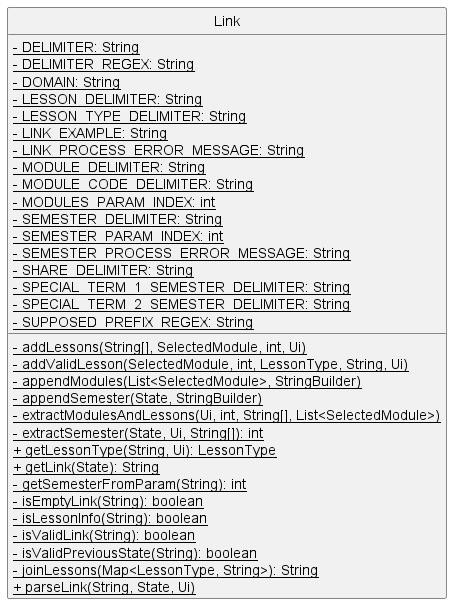
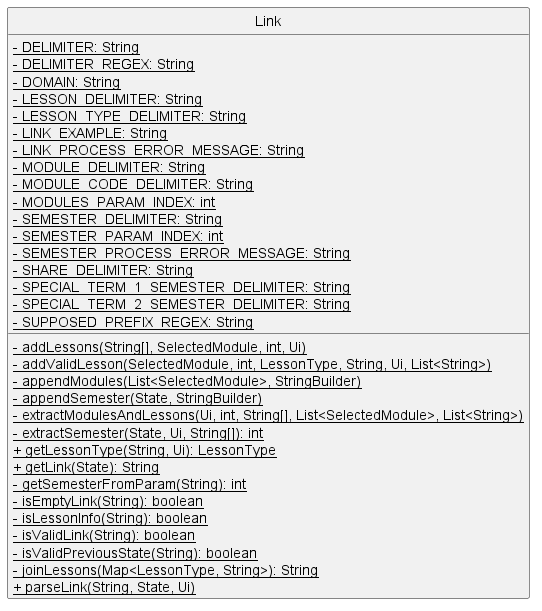
Fix link class

Changed region(s): [[0.0, 0.0311, 0.976, 0.9951], [0.4575, 0.0311, 0.5185, 0.0622], [0.6405, 0.2488, 0.671, 0.2799]]

diff --git a/src/main/java/seedu/duke/utils/Link.java b/src/main/java/seedu/duke/utils/Link.java
@@ -23,8 +23,6 @@ public class Link {
 
     private static final String DELIMITER = "/";
 
-    private static final String DELIMITER_REGEX = "\\/";
-
     private static final String SEMESTER_DELIMITER = "sem-";
 
     private static final String SPECIAL_TERM_1_SEMESTER_DELIMITER = "st-i";
@@ -37,8 +35,9 @@ public class Link {
 
     private static final String MODULE_CODE_DELIMITER = "=";
 
-    private static final String SUPPOSED_PREFIX_REGEX = "^" + DOMAIN + "(" + SPECIAL_TERM_1_SEMESTER_DELIMITER + "|"
-            + SPECIAL_TERM_2_SEMESTER_DELIMITER + "|" + SEMESTER_DELIMITER + "\\d" + ")/share\\?.";
+    private static final String SUPPOSED_PREFIX_REGEX = "^" + Pattern.quote(DOMAIN) + "("
+            + SPECIAL_TERM_1_SEMESTER_DELIMITER + "|" + SPECIAL_TERM_2_SEMESTER_DELIMITER
+            + "|" + SEMESTER_DELIMITER + "\\d" + ")" + Pattern.quote(DELIMITER + SHARE_DELIMITER);
 
     private static final String MODULE_DELIMITER = "&";
 
@@ -66,7 +65,7 @@ public class Link {
      * @param state Current state of the application to be saved to.
      */
     public static void parseLink(String link, State state, Ui ui) throws YamomException {
-        String[] infoParam = link.split(DELIMITER_REGEX);
+        String[] infoParam = link.split(Pattern.quote(DELIMITER));
 
         int semester = extractSemester(state, ui, infoParam);
         String modulesParam = infoParam[MODULES_PARAM_INDEX];
@@ -76,9 +75,10 @@ public class Link {
         if (cleanModuleParam.isEmpty()) {
             return;
         }
-        String[] moduleAndLessonsArray = cleanModuleParam.split(MODULE_DELIMITER);
+        String[] moduleAndLessonsArray = cleanModuleParam.split(Pattern.quote(MODULE_DELIMITER));
         List<SelectedModule> selectedModules = new ArrayList<>();
-        extractModulesAndLessons(ui, semester, moduleAndLessonsArray, selectedModules);
+        List<String> moduleCodesAdded = new ArrayList<>();
+        extractModulesAndLessons(ui, semester, moduleAndLessonsArray, selectedModules, moduleCodesAdded);
         ui.addMessage("Please check that the format of the link provided is correct if there are missing "
                 + "modules or lessons.");
         ui.addMessage("Please visit https://ay2223s1-cs2113-f11-3.github.io/tp/UserGuide.html#import-a-"
@@ -92,11 +92,12 @@ public class Link {
      *
      * @param ui                    To output to the user.
      * @param semester              Semester in which lessons are being selected for.
-     * @param moduleAndLessonsArray The segment of user input that contains the modules information.
+     * @param moduleAndLessonsArray The segment of user input that contains the modules' information.
      * @param selectedModules       To store all the modules specified in a standardized format.
+     * @param moduleCodesAdded      To verify that there are no duplicate modules added.
      */
     private static void extractModulesAndLessons(Ui ui, int semester, String[] moduleAndLessonsArray,
-                                                 List<SelectedModule> selectedModules) {
+                                                 List<SelectedModule> selectedModules, List<String> moduleCodesAdded) {
         for (String moduleAndLessons : moduleAndLessonsArray) {
             String[] splitModuleAndLesson = moduleAndLessons.split(Pattern.quote(MODULE_CODE_DELIMITER));
             if (splitModuleAndLesson.length == 0) {
@@ -104,15 +105,16 @@ public class Link {
             }
             String moduleCode = splitModuleAndLesson[0];
             Module module = Module.get(moduleCode);
-            if (module == null || module.getSemesterData(semester) == null) {
+            if (module == null || module.getSemesterData(semester) == null || moduleCodesAdded.contains(moduleCode)) {
                 continue;
             }
             ui.addMessage(moduleCode + " added.");
-            ui.addMessage("The following lessons were added:");
+            ui.addMessage("The following lesson(s) were added:");
             SelectedModule selectedModule = new SelectedModule(module, semester);
-            //only parses the lessons between the first and second = sign (there is not supposed to be a second = sign)
+            moduleCodesAdded.add(moduleCode);
+
             if (splitModuleAndLesson.length > 1) {
-                String[] lessonsInfo = (splitModuleAndLesson[1]).split(LESSON_DELIMITER);
+                String[] lessonsInfo = (splitModuleAndLesson[1]).split(Pattern.quote(LESSON_DELIMITER));
                 addLessons(lessonsInfo, selectedModule, semester, ui);
             }
             selectedModules.add(selectedModule);
@@ -198,14 +200,18 @@ public class Link {
      * @param ui             To output to the user.
      */
     private static void addLessons(String[] lessonsInfo, SelectedModule selectedModule, int semester, Ui ui) {
+        List<String> lessonsAdded = new ArrayList<>();
         for (String s : lessonsInfo) {
             if (!isLessonInfo(s)) {
                 continue;
             }
-            String[] lessonInfo = s.split(LESSON_TYPE_DELIMITER);
+            String[] lessonInfo = s.split(Pattern.quote(LESSON_TYPE_DELIMITER));
             LessonType lessonType = getLessonType(lessonInfo[0], ui);
             String classNo = lessonInfo[1];
-            addValidLesson(selectedModule, semester, lessonType, classNo, ui);
+            if (lessonsAdded.contains(lessonType + ":" + classNo)) {
+                continue;
+            }
+            addValidLesson(selectedModule, semester, lessonType, classNo, ui, lessonsAdded);
         }
     }
 
@@ -217,27 +223,29 @@ public class Link {
      * @param lessonType     Specified lesson type.
      * @param classNo        Specified class number.
      * @param ui             To output to the user.
+     * @param lessonsAdded   To verify that there are no duplicate lessons added.
      */
-    private static void addValidLesson(SelectedModule selectedModule, int semester,
-                                       LessonType lessonType, String classNo, Ui ui) {
+    private static void addValidLesson(SelectedModule selectedModule, int semester, LessonType lessonType,
+                                       String classNo, Ui ui, List<String> lessonsAdded) {
         List<RawLesson> potentialLesson = selectedModule.getModule().getSemesterData(semester)
             .getLessonsByTypeAndNo(lessonType, classNo);
         if (!potentialLesson.isEmpty()) {
             selectedModule.selectSlot(lessonType, classNo);
             ui.addMessage(lessonType + ":" + classNo);
+            lessonsAdded.add(lessonType + ":" + classNo);
         }
     }
 
     /**
      * Checks if the lesson information is of a valid form. It should begin with 3 to 4 alphanumeric
-     * capital alphabets defined in the {@link LessonTypeParser#parse(String)} function.
+     * alphabets defined in the {@link LessonTypeParser#parse(String)} function.
      *
      * @param lessonInfo Single lesson information of a module.
      * @return <code>true</code> if the lesson information is of a valid form.
      */
     private static boolean isLessonInfo(String lessonInfo) {
         //pattern for classNo is not definite.
-        Pattern pattern = Pattern.compile("[A-Z]{3,4}\\d?:");
+        Pattern pattern = Pattern.compile("^[A-Z]{3,4}\\d?:.");
         Matcher matcher = pattern.matcher(lessonInfo);
         return matcher.find();
     }

diff --git a/src/test/java/seedu/duke/utils/LinkTest.java b/src/test/java/seedu/duke/utils/LinkTest.java
@@ -71,6 +71,7 @@ public class LinkTest {
 
     @Test
     public void isValidLink_validLink_true() {
+        assertTrue(Link.isValidLink("https://nusmods.com/timetable/sem-1/share?"));
         assertTrue(Link.isValidLink("https://nusmods.com/timetable/sem-1/share?CS2113="));
         assertTrue(Link.isValidLink("https://nusmods.com/timetable/st-i/share?CS2113="));
         assertTrue(Link.isValidLink("https://nusmods.com/timetable/st-ii/share?CS2113="));
@@ -78,6 +79,7 @@ public class LinkTest {
 
     @Test
     public void isValidLink_notValidLink_false() {
+        assertFalse(Link.isValidLink("https://nusmods.com/timetable/sem-1share?"));
         assertFalse(Link.isValidLink("https://nusmods.com/timetable/sem-a/share?CS2113="));
         assertFalse(Link.isValidLink("https://nusmods.com/timetable/st-iii/share?CS2113="));
     }

diff --git a/src/main/java/seedu/duke/command/ImportCommand.java b/src/main/java/seedu/duke/command/ImportCommand.java
@@ -21,9 +21,11 @@ public class ImportCommand extends Command {
     public ImportCommand(String[] input) throws YamomException {
         super(input);
 
-        if (!Parser.isTwoWordsCommand(input)) {
+        if (Parser.isOneWordCommand(input)) {
             throw new YamomException("No NUSMod link given.");
-        } else if (!Link.isValidLink(input[1]) && !Link.isEmptyLink(input[1])) {
+        } else if (Parser.isMultiWordsCommand(input)) {
+            throw new YamomException("Too many parameters supplied.");
+        } else if (!Link.isValidLink(input[1])) {
             throw new YamomException("The link you supplied is not valid.");
         } else if (Link.isEmptyLink(input[1])) {
             throw new YamomException("You are trying to import an empty timetable.");

diff --git a/src/main/java/seedu/duke/utils/Storage.java b/src/main/java/seedu/duke/utils/Storage.java
@@ -78,7 +78,7 @@ public class Storage {
         Scanner scanner = new Scanner(file);
         while (scanner.hasNext()) {
             String line = scanner.nextLine();
-            if (Link.isValidLink(line)) {
+            if (Link.isValidLink(line) && !Link.isEmptyLink(line)) {
                 links.add(line);
             }
         }

diff --git a/docs/UserGuide.md b/docs/UserGuide.md
@@ -795,11 +795,15 @@ Format: `import [ NUSMOD_LINK ]`
   * `LAB`  representing LABORATORY
   * `PROJ` representing MINI_PROJECT
   * `SEM`  representing SEMINAR_STYLE_MODULE_CLASS  
-  note: other lesson types are currently not supported.
+  note: other lesson types are currently not supported. Preliminary checks based on the first 4 characters have been implemented to ensure that 
+  * `LESSON_TYPE_SHORT_FORM` is of the above-mentioned form. E.g. `TUTA` will be accepted as representing TUTORIAL.
 * `LESSON_NUMBER` can vary and is not of a certain form. Take note `01` is not the same as `1`. 
 * If `SEMESTER_NUMBER` is incorrect, the whole link will not be parsed.
 * If `MODULE_CODE` is incorrect, that module will not be added.
+* If there are duplicated `MODULE_CODE`, only the first module information will be parsed.
 * If `LESSONS_INFO` is incorrect, that lesson will not be added.
+* If there are duplicated `LESSON_TYPE` within the lesson information, only the last lesson 
+information of that `LESSON_TYPE` will be saved although all will be parsed.
 * The other parts of the link that is valid will still be parsed and a success message will be displayed.
 
 Example of usage:
@@ -887,20 +891,20 @@ Alternatively, you can export the timetable, copy the link generated, and import
 
 ## Command summary
 
-| Action                           | Format                                                                                                 | Example                                                               |
-|----------------------------------|--------------------------------------------------------------------------------------------------------|-----------------------------------------------------------------------|
-| Add a module                     | `add [ MODULE_CODE ]`                                                                                  | `add CS2101`                                                          |
-| Remove a module                  | `remove [ MODULE_CODE ]`                                                                               | `remove CS2102`                                                       |
-| Exit application                 | `bye`                                                                                                  | `bye`                                                                 |
-| Read more details about a module | `info [ MODULE_CODE ]`                                                                                 | `info CS2103`                                                         |
-| Find module by keyword           | `search [ /code PARTIAL_MODULE_CODE &#124; /title KEYWORD ] < /level MODULE_LEVEL > < /sem SEMESTER >` | `search /code cs /level 2 /sem 1`                                     |
-| Seek help                        | `help`                                                                                                 | `help`                                                                |
-| Import modules from NUSMods URL  | `import [ NUSMODS_LINK ]`                                                                              | `import https://nusmods.com/timetable/sem-1/share?CS2113=LEC:1,TUT:4` |
-| Export modules to NUSMods URL    | `export`                                                                                               | `export`                                                              |
-| Change semester                  | `semester [ SEMESTER ]`                                                                                | `semester 2`                                                          |
-| View timetable                   | `timetable < /fancy &#124; /simple >`                                                                  | `timetable`                                                           |
-| List selected modules            | `list`                                                                                                 | `list`                                                                |
-| Add module timetable slot        | `select [ /module MODULE_CODE ] [ /type LESSON_TYPE ] [ /code CLASS_NO ]`                              | `select /module CS1010 /type tutorial /code 1`                        |
+| Action                           | Format                                                                                                            | Example                                                               |
+|----------------------------------|-------------------------------------------------------------------------------------------------------------------|-----------------------------------------------------------------------|
+| Add a module                     | `add [ MODULE_CODE ]`                                                                                             | `add CS2101`                                                          |
+| Remove a module                  | `remove [ MODULE_CODE ]`                                                                                          | `remove CS2102`                                                       |
+| Exit application                 | `bye`                                                                                                             | `bye`                                                                 |
+| Read more details about a module | `info [ MODULE_CODE ]`                                                                                            | `info CS2103`                                                         |
+| Find module by keyword           | <code>search [ /code PARTIAL_MODULE_CODE &#124; /title KEYWORD ] < /level MODULE_LEVEL > < /sem SEMESTER ></code> | `search /code cs /level 2 /sem 1`                                     |
+| Seek help                        | `help`                                                                                                            | `help`                                                                |
+| Import modules from NUSMods URL  | `import [ NUSMODS_LINK ]`                                                                                         | `import https://nusmods.com/timetable/sem-1/share?CS2113=LEC:1,TUT:4` |
+| Export modules to NUSMods URL    | `export`                                                                                                          | `export`                                                              |
+| Change semester                  | `semester [ SEMESTER ]`                                                                                           | `semester 2`                                                          |
+| View timetable                   | <code>timetable < /fancy &#124; /simple ></code>                                                                  | `timetable`                                                           |
+| List selected modules            | `list`                                                                                                            | `list`                                                                |
+| Add module timetable slot        | `select [ /module MODULE_CODE ] [ /type LESSON_TYPE ] [ /code CLASS_NO ]`                                         | `select /module CS1010 /type tutorial /code 1`                        |
 
 ## Credits
 
